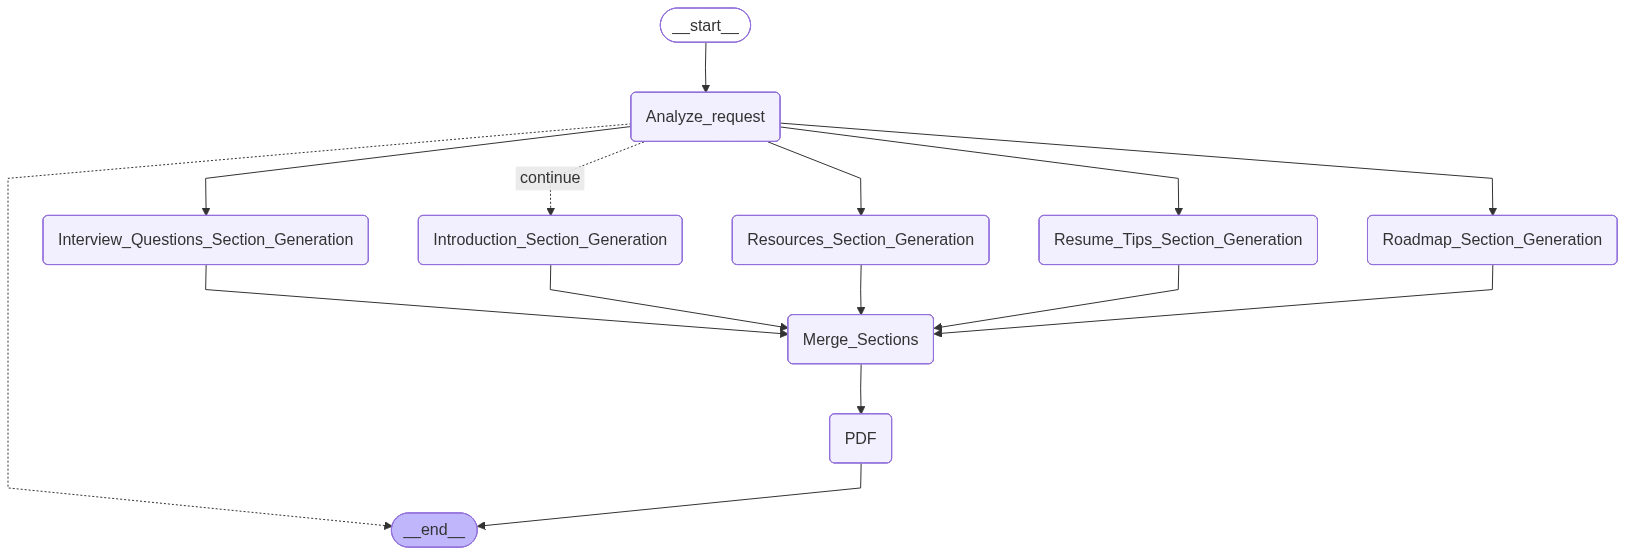
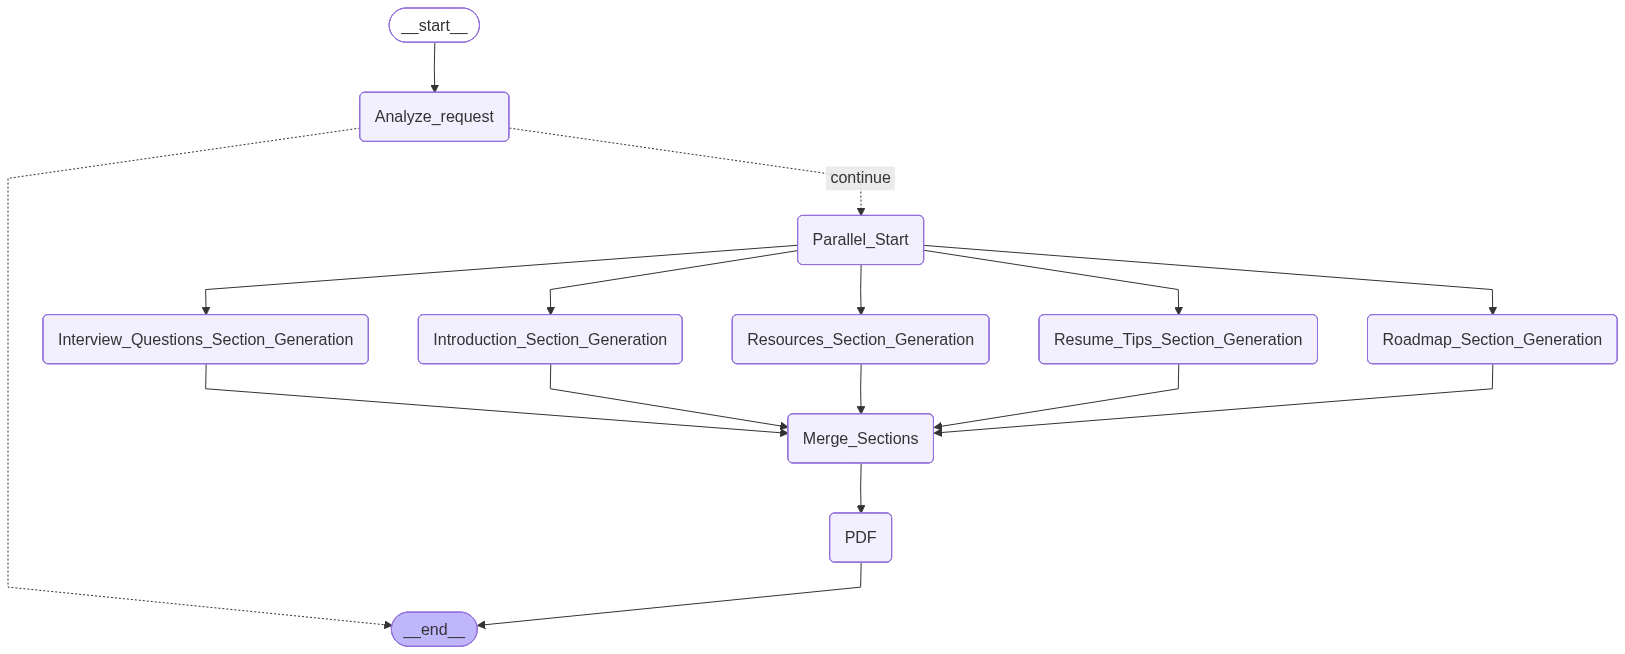
First version of the project done!

diff --git a/graph.py b/graph.py
@@ -9,9 +9,13 @@ from nodes.merge import merge
 from nodes.PDF_generator import pdf_generator_node
 from langgraph.graph import START,END,StateGraph
 
+def parallel_start(state: GuideState):
+    return {}
+
 graph= StateGraph(GuideState)
 
 graph.add_node("Analyze_request",analyze_request_node)
+graph.add_node("Parallel_Start", parallel_start)
 graph.add_node("Introduction_Section_Generation",intro_RAG)
 graph.add_node("Roadmap_Section_Generation",rm_RAG)
 graph.add_node("Resources_Section_Generation",resources_RAG)
@@ -25,15 +29,15 @@ graph.add_conditional_edges(
     "Analyze_request",
     analyze_router,
     {
-        "continue": "Introduction_Section_Generation",
+        "continue": "Parallel_Start",
         END: END,
     },
 )
-graph.add_edge("Analyze_request", "Introduction_Section_Generation")
-graph.add_edge("Analyze_request", "Roadmap_Section_Generation")
-graph.add_edge("Analyze_request", "Resources_Section_Generation")
-graph.add_edge("Analyze_request", "Interview_Questions_Section_Generation")
-graph.add_edge("Analyze_request", "Resume_Tips_Section_Generation")
+graph.add_edge("Parallel_Start", "Introduction_Section_Generation")
+graph.add_edge("Parallel_Start", "Roadmap_Section_Generation")
+graph.add_edge("Parallel_Start", "Resources_Section_Generation")
+graph.add_edge("Parallel_Start", "Interview_Questions_Section_Generation")
+graph.add_edge("Parallel_Start", "Resume_Tips_Section_Generation")
 graph.add_edge("Introduction_Section_Generation", "Merge_Sections")
 graph.add_edge("Roadmap_Section_Generation", "Merge_Sections")
 graph.add_edge("Resources_Section_Generation", "Merge_Sections")
@@ -43,10 +47,11 @@ graph.add_edge("Merge_Sections", "PDF")
 graph.add_edge("PDF", END)
 guide_graph=graph.compile()
 
-#png=guide_graph.get_graph().draw_mermaid_png()
-#with open("langgraph.png", "wb") as f:
-#    f.write(png)
+png=guide_graph.get_graph().draw_mermaid_png()
+with open("langgraph.png", "wb") as f:
+    f.write(png)
 
-#print("Graph saved as langgraph.png")
+print("Graph saved as langgraph.png")
 
-guide_graph.invoke({"question":"create end to end career guide for Ai Engineer"})
+result=guide_graph.invoke({"question":"tell me a joke"})
+print(result)